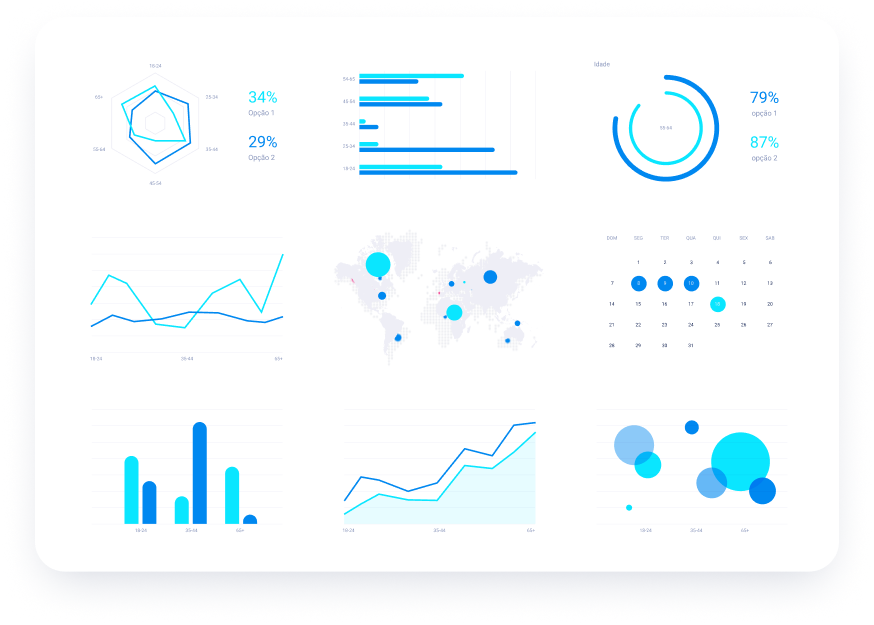
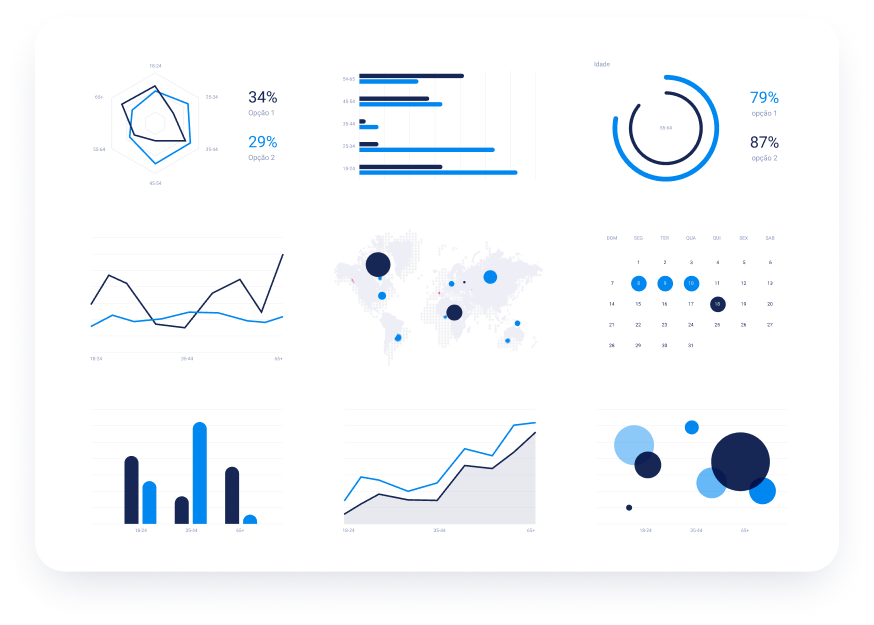
Paleta de cores mudada

diff --git a/src/components/services/knowMore/index.tsx b/src/components/services/knowMore/index.tsx
@@ -1,0 +1,27 @@
+import { Popover } from "@headlessui/react";
+import { X } from "phosphor-react";
+
+export function KnowMore() {
+  return (
+    <Popover.Panel>
+      <div className="fixed top-0 left-0 w-full h-full flex items-center justify-center bg-primary bg-opacity-40">
+        <div className="bg-white max-w-[90%] p-8 rounded-3xl relative">
+          <Popover.Button className="absolute top-2 right-2">
+            <X size={30} />
+          </Popover.Button>
+          <p>Pesquisas Qualitativas</p>
+          <p>
+            Lorem ipsum dolor sit amet consectetur adipisicing elit. Praesentium
+            sunt optio facilis, nihil magni corrupti nesciunt doloribus dolor
+            totam earum nobis repellat, laborum rerum corporis voluptates
+            quisquam exercitationem ab ea! Lorem ipsum dolor sit amet
+            consectetur adipisicing elit. Nam, optio sapiente commodi dolor
+            repudiandae exercitationem aut ratione accusantium, obcaecati minus
+            animi vero quaerat, explicabo laborum sit? Obcaecati nihil eaque
+            similique.
+          </p>
+        </div>
+      </div>
+    </Popover.Panel>
+  );
+}

diff --git a/src/components/services/index.tsx b/src/components/services/index.tsx
@@ -1,0 +1,22 @@
+// import rua from "../../assets/rua.png";
+
+import sala from "../../assets/sala.png";
+import { TextBlock } from "./TextBlock";
+import { KnowMore } from "./knowMore";
+
+export function Services() {
+  return (
+    <section id="servicos" className="flex flex-col items-center">
+      <div className="lg:w-container flex flex-col items-center">
+        <h3 className="text-4xl text-primary font-bold ">Serviços</h3>
+        <div className="lg:w-container w-full lg:px-0 px-4 lg:overflow-visible bg-cover bg-center flex flex-col lg:flex-row items-center lg:justify-between gap-4 mt-10">
+          <img src={sala} alt="" className="rounded-3xl shadow-md" />
+          <TextBlock
+            title="Pesquisa Qualitativa"
+            description="Captação do pulso do eleitorado através de métodos como grupos focais e entrevistas em profundidade."
+          />
+        </div>
+      </div>
+    </section>
+  );
+}

diff --git a/src/components/services/TextBlock.tsx b/src/components/services/TextBlock.tsx
@@ -1,0 +1,23 @@
+import { Popover } from "@headlessui/react";
+import { ArrowBendRightUp } from "phosphor-react";
+import { KnowMore } from "./knowMore";
+
+interface TextBlockProps {
+  title: string;
+  description: string;
+}
+
+export function TextBlock({ title, description }: TextBlockProps) {
+  return (
+    <div className="lg:min-w-[550px] w-full flex gap-4 flex-col items-start justify-center mb-10">
+      <h3 className="text-primary font-bold lg:text-5xl text-3xl">{title}</h3>
+      <p className="text-secondary text-lg">{description}</p>
+      <Popover>
+        <Popover.Button className="flex items-center text-primary hover:text-highlights outline-none">
+          Saiba mais <ArrowBendRightUp />
+        </Popover.Button>
+        <KnowMore />
+      </Popover>
+    </div>
+  );
+}

diff --git a/src/components/presentation/TextBlock.tsx b/src/components/presentation/TextBlock.tsx
@@ -1,3 +1,5 @@
+import { Button } from "../button";
+
 export function TextBlock() {
   return (
     <div className="lg:min-w-[550px] w-full flex gap-4 flex-col items-start justify-center mb-10">
@@ -8,9 +10,7 @@ export function TextBlock() {
         A sua janela para o cenário eleitoral regional. Expertise local com
         alcance e precisão global.
       </p>
-      <button className="bg-highlights text-white py-2 lg:px-8  lg:max-w-40 w-[100%] rounded-full lg:mt-10 mb-20 hover:bg-white hover:text-highlights transition-all">
-        Contate nos
-      </button>
+      <Button text="Contate nos" />
     </div>
   );
 }

diff --git a/src/components/header/index.tsx b/src/components/header/index.tsx
@@ -1,6 +1,6 @@
 import logo from "../../assets/logo.svg";
 import { Menu } from "./Navigation";
-import { Dropdown } from "../dropdown";
+import { Dropdown } from "./dropdown";
 
 export function Header() {
   return (
@@ -13,7 +13,7 @@ export function Header() {
             alt="Icone da logo da Vox Analitica"
           />
           <p className="font-bold text-xl text-white uppercase">
-            Voz Analitica
+            Vox Analitica
           </p>
         </div>
         <button className="lg:hidden">

diff --git a/src/App.tsx b/src/App.tsx
@@ -1,14 +1,16 @@
 import { About } from "./components/about";
 import { Presentation } from "./components/presentation";
+import { Services } from "./components/services";
 import { Whatsapp } from "./components/whatsapp";
 
 function App() {
   return (
-    <>
+    <div className="flex flex-col w-full gap-20">
       <Whatsapp />
       <Presentation />
       <About />
-    </>
+      <Services />
+    </div>
   );
 }
 

diff --git a/src/components/button/index.tsx b/src/components/button/index.tsx
@@ -1,0 +1,11 @@
+interface ButtonProps {
+  text: string;
+}
+
+export function Button({ text }: ButtonProps) {
+  return (
+    <button className="bg-highlights text-white font-bold py-2 lg:px-8  lg:max-w-40 w-[100%] rounded-full lg:mt-10 mb-20 hover:bg-white hover:text-highlights transition-all">
+      {text}
+    </button>
+  );
+}

diff --git a/src/components/services/card/index.tsx b/src/components/services/card/index.tsx
@@ -1,0 +1,15 @@
+interface CardProps {
+  imgSrc: string;
+  title: string;
+  description: string;
+}
+
+export function Card({ imgSrc, title, description }: CardProps) {
+  return (
+    <div>
+      <img src={imgSrc} alt="" />
+      <h4>{title}</h4>
+      <p>{description}</p>
+    </div>
+  );
+}

diff --git a/tailwind.config.js b/tailwind.config.js
@@ -4,7 +4,7 @@ export default {
   theme: {
     extend: {},
     colors: {
-      highlights: "#0AE6FF",
+      highlights: "#172755",
       primary: "#052789",
       secondary: "#8794BA",
       white: "#fff",
